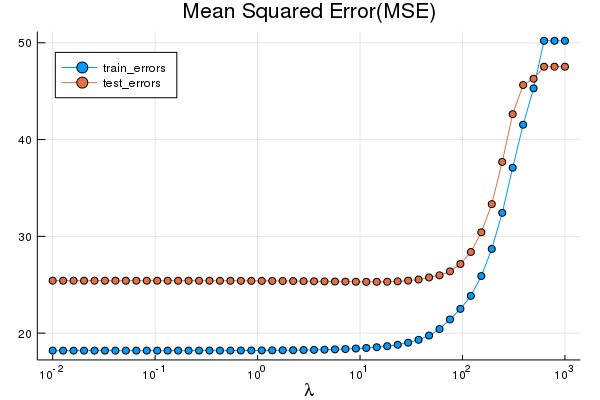
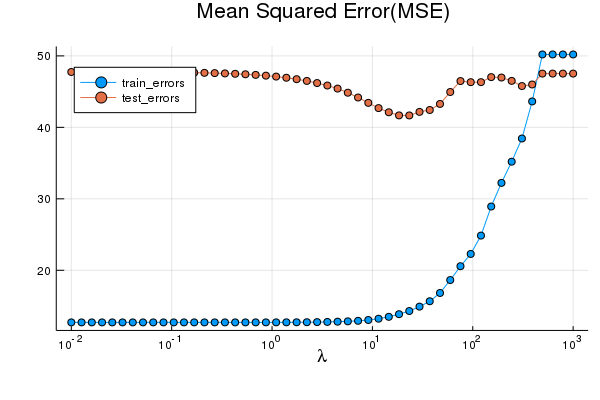
[BUGFIX] train(optimize) was using WHOLE data sould use Train data

diff --git a/examples/lasso_regression.md b/examples/lasso_regression.md
@@ -44,7 +44,8 @@ mse(X,Y,β) = (1.0/size(X,1)) * evaluate(loss(X,Y,β))[1] # dirty
 β = Variable(n)
 λ = Constant([1.0]) # Parameters
 # problem = minimize(loss(X,Y,β) +λ*sumsquares(β)) # Ridge: |β|_2^2
-problem = minimize(loss(X,Y,β) +λ*norm(β,1)) # Lasso (only change here)
+# NOT USE WHOLE DATAB BUT USE ONLY TRAIN DATA
+problem = minimize(loss(X_train,Y_train,β) +λ*norm(β,1)) # Lasso (only change here).
 λs = logspace(-2,3,50)
 
 df = DataFrame(

diff --git a/examples/ridge_regression.md b/examples/ridge_regression.md
@@ -43,7 +43,7 @@ mse(X,Y,β) = (1.0/size(X,1)) * evaluate(loss(X,Y,β))[1] # dirty
 
 β = Variable(n)
 λ = Constant([1.0]) # Parameters
-problem = minimize(loss(X,Y,β) +λ*sumsquares(β)) # |β|_2^2
+problem = minimize(loss(X_train,Y_train,β) +λ*sumsquares(β)) # |β|_2^2
 λs = logspace(-2,3,50)
 
 df = DataFrame(
